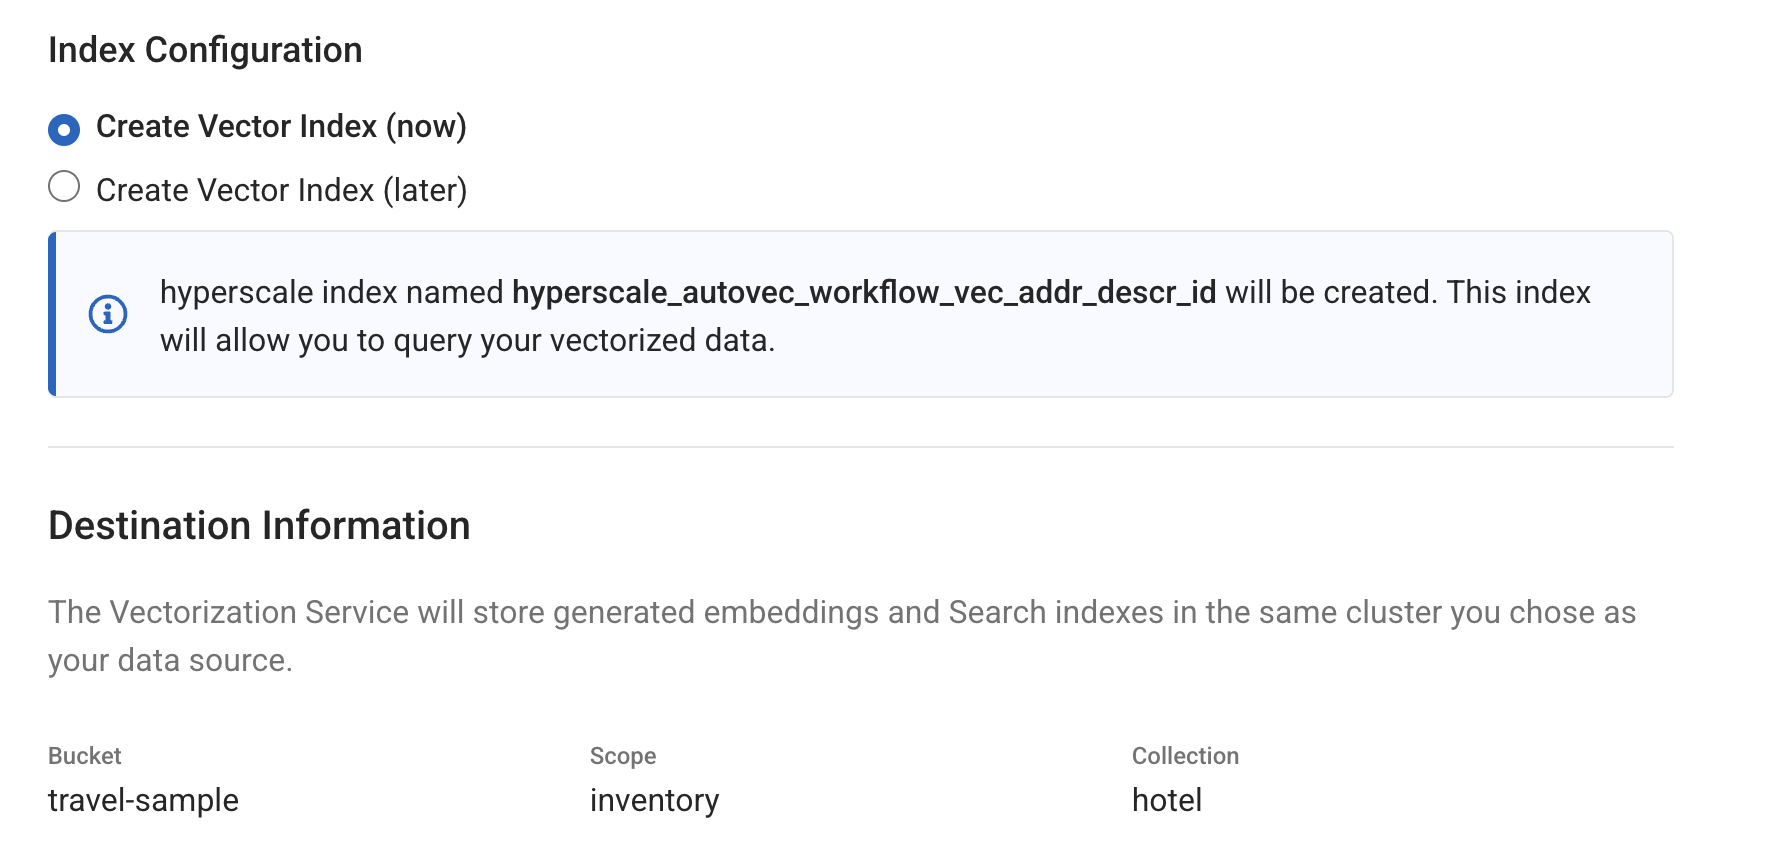
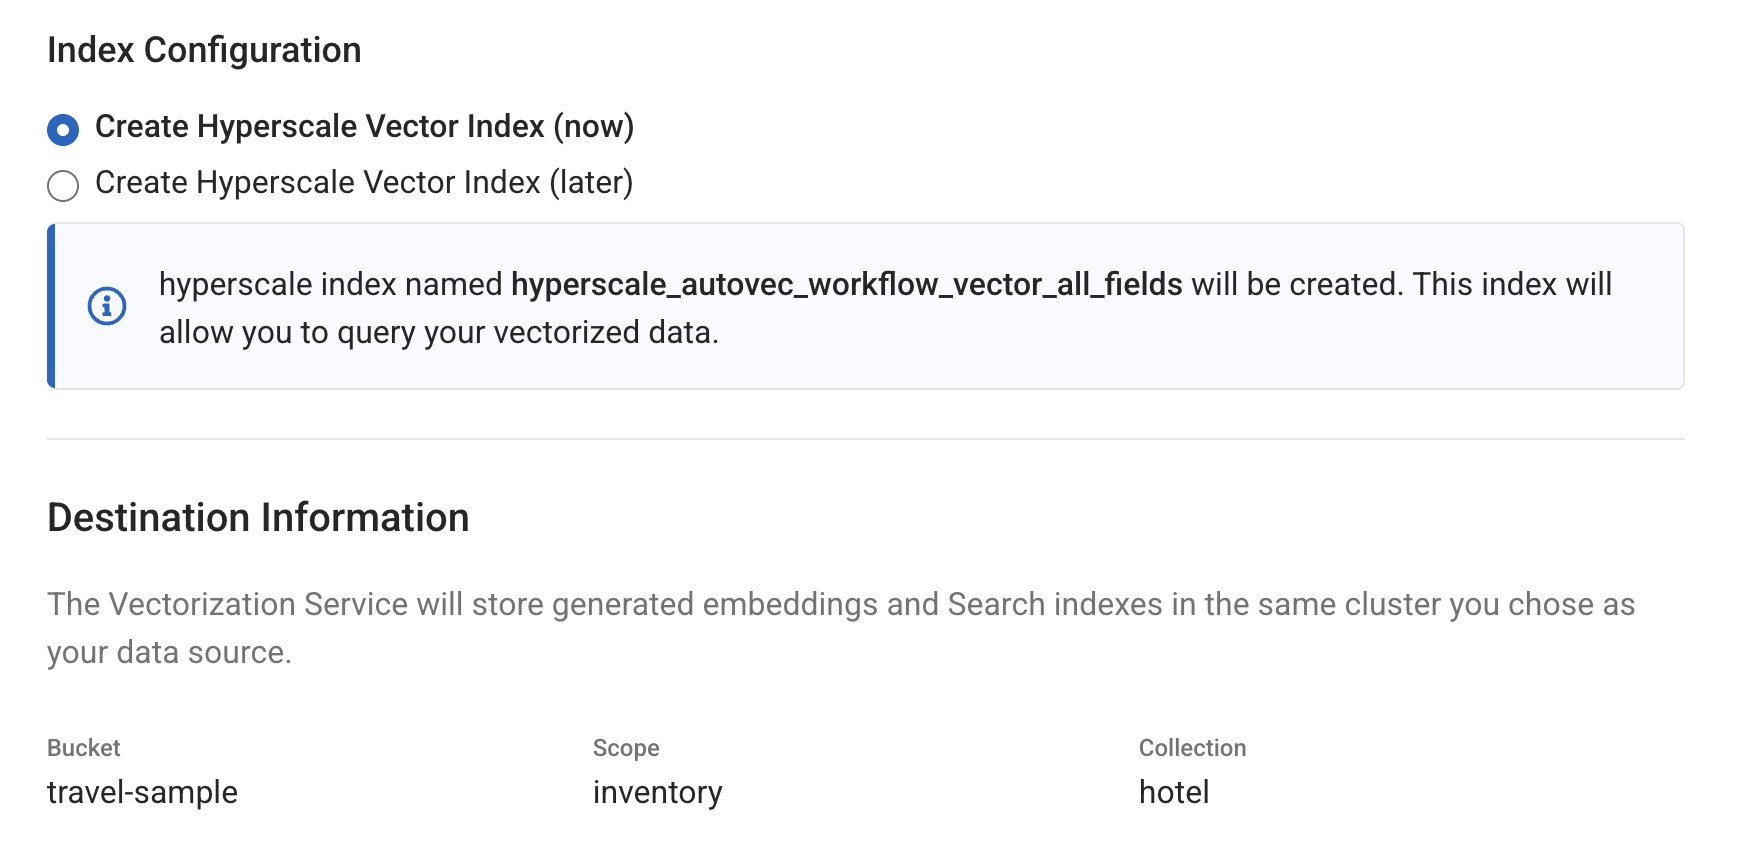
updated tutorial - using all source as vector embeddings - updated frontmatter - used ## & # for headings and subheadings

diff --git a/autovec-structured/frontmatter.md b/autovec-structured/frontmatter.md
@@ -1,10 +1,10 @@
 ---
 # frontmatter
-path: "/tutorial-couchbase-autovectorization-structured-langchain"
+path: "/tutorial-couchbase-capella-autovectorization-workflows-with-structured-data-and-langchain"
 title: Auto-Vectorization of Strucutured Data with Couchbase Capella AI Services
 short_title: Auto-Vectorization with Couchbase and LangChain
 description:
-  - Learn how to use Couchbase Capella's AI Services auto-vectorization feature to automatically convert your structured data into vector embeddings. To learn about the auto-vectorization of unstuctured data read the following ["/tutorial-couchbase-autovectorization-unstructured-langchain"].
+  - Learn how to use Couchbase Capella's AI Services auto-vectorization feature to automatically convert your structured data into vector embeddings. To learn about the auto-vectorization of unstuctured data read the following ["/tutorial-couchbase-autovectorization-workdlows-with-unstructured-data-and-langchain"].
   - This tutorial demonstrates how to set up automated embedding generation workflows and perform semantic search using LangChain.
 content_type: tutorial
 filter: sdk
